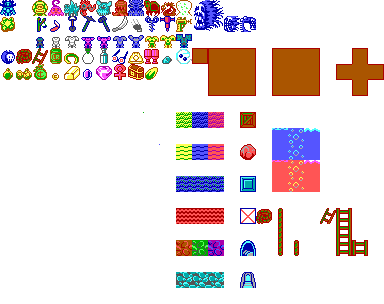
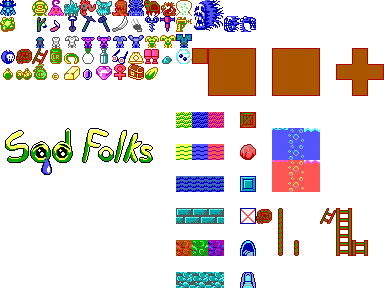
glory of brik

Changed region(s): [[0.0, 0.4145, 0.4062, 0.5921], [0.4375, 0.6809, 0.5938, 0.7401]]

diff --git a/src/maps.ts b/src/maps.ts
@@ -22,6 +22,7 @@ import {
 import Tile from "./Tile";
 import {
   border,
+  brick,
   dirtDeep,
   dirtMiddle,
   dirtShallow,
@@ -65,6 +66,7 @@ const tileTypes: Record<string, Tile | Tile[]> = {
   "^": ladderTile,
   "|": ropeTile,
   "~": water,
+  "]": brick,
 };
 
 const actorTypes: Record<string, Partial<ActorOptions>> = {
